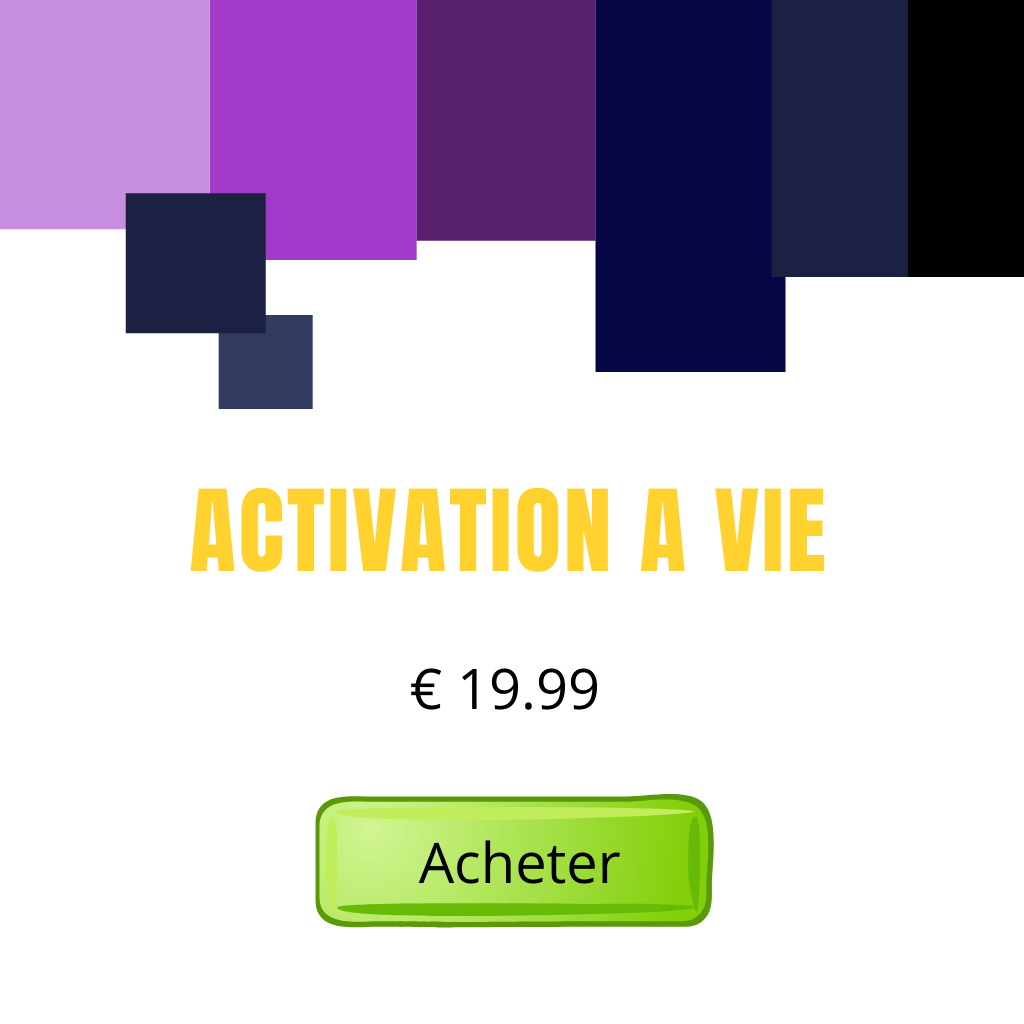
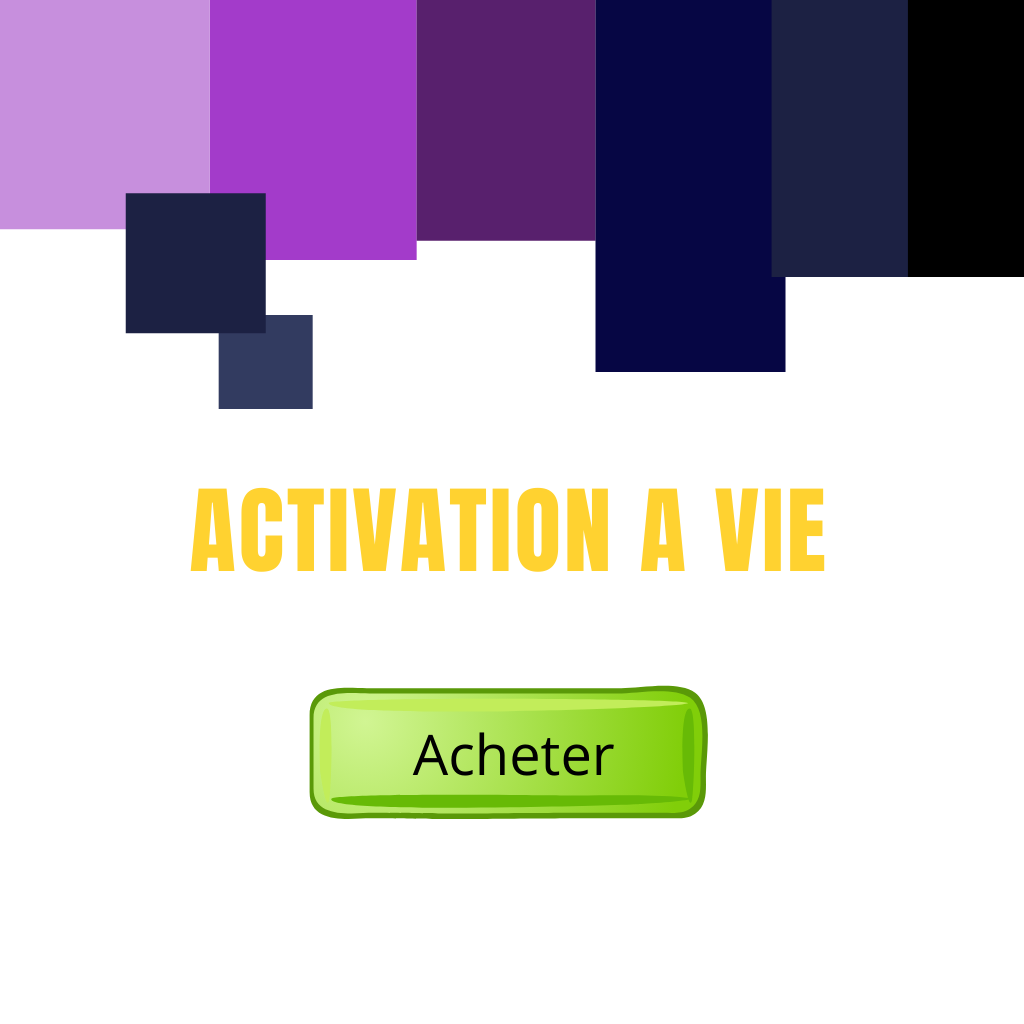
new image achat et desactive activation

Changed region(s): [[0.2812, 0.6562, 0.7188, 0.9062]]

diff --git a/icandoit/lib/screens/components/purchase_app.dart b/icandoit/lib/screens/components/purchase_app.dart
@@ -366,7 +366,6 @@ class _PurchaseAppStartState extends State<PurchaseAppStart> {
   final List<String> titles = [
     "",
     "",
-    "",
   ];
 
   bool _isDialogShowing = false;
@@ -393,13 +392,13 @@ class _PurchaseAppStartState extends State<PurchaseAppStart> {
         fit: BoxFit.cover,
       ),
     ),
-    ClipRRect(
-      borderRadius: BorderRadius.circular(20.0),
-      child: Image.asset(
-        'assets/3.png',
-        fit: BoxFit.cover,
-      ),
-    ),
+    // ClipRRect(
+    //   borderRadius: BorderRadius.circular(20.0),
+    //   child: Image.asset(
+    //     'assets/3.png',
+    //     fit: BoxFit.cover,
+    //   ),
+    // ),
     ClipRRect(
       borderRadius: BorderRadius.circular(20.0),
       child: Image.asset(
@@ -593,12 +592,13 @@ class _PurchaseAppStartState extends State<PurchaseAppStart> {
                                         _auth,
                                         documentId,
                                       );
-                                    } else if (page == 2) {
+                                    } else if (page == 1) {
                                       buyProduct(data.data[0], variable, _auth,
                                           documentId);
-                                    } else if (page == 1) {
-                                      editActivation(variable, documentId);
                                     }
+                                    // else if (page == 1) {
+                                    //   editActivation(variable, documentId);
+                                    // }
                                   },
                                   images: items,
                                   titles: titles,
